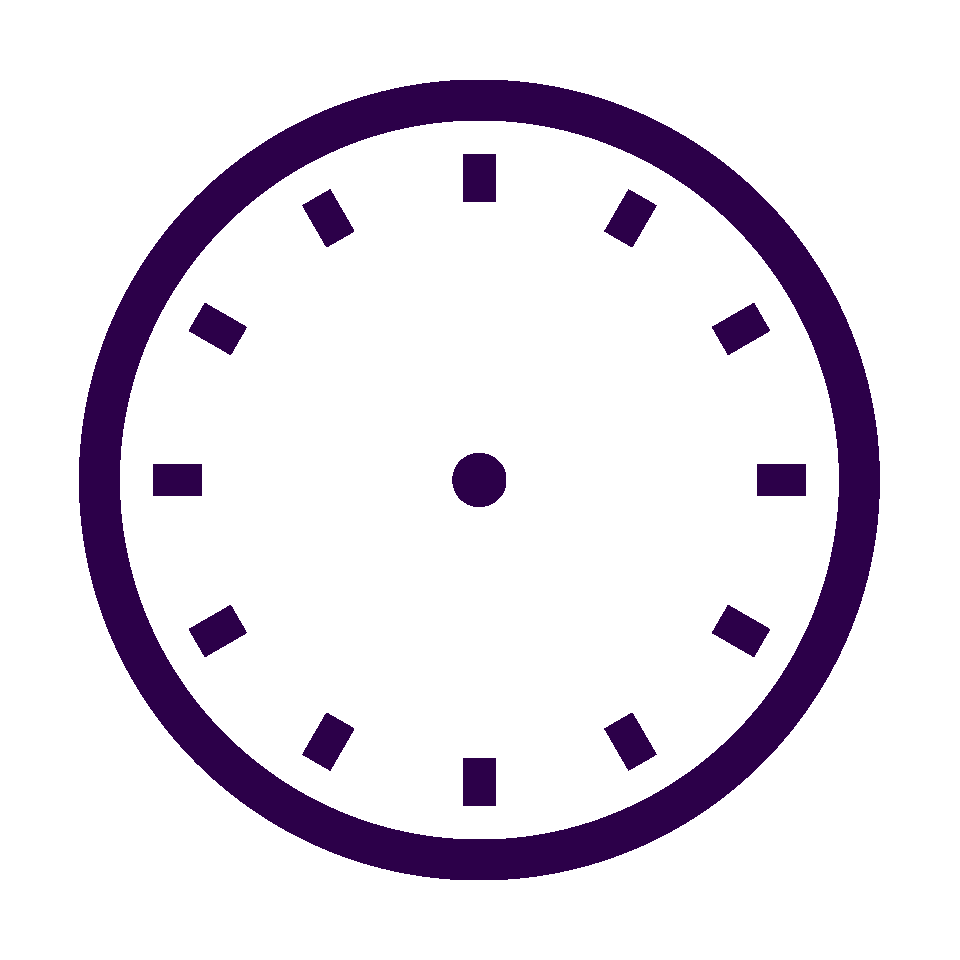
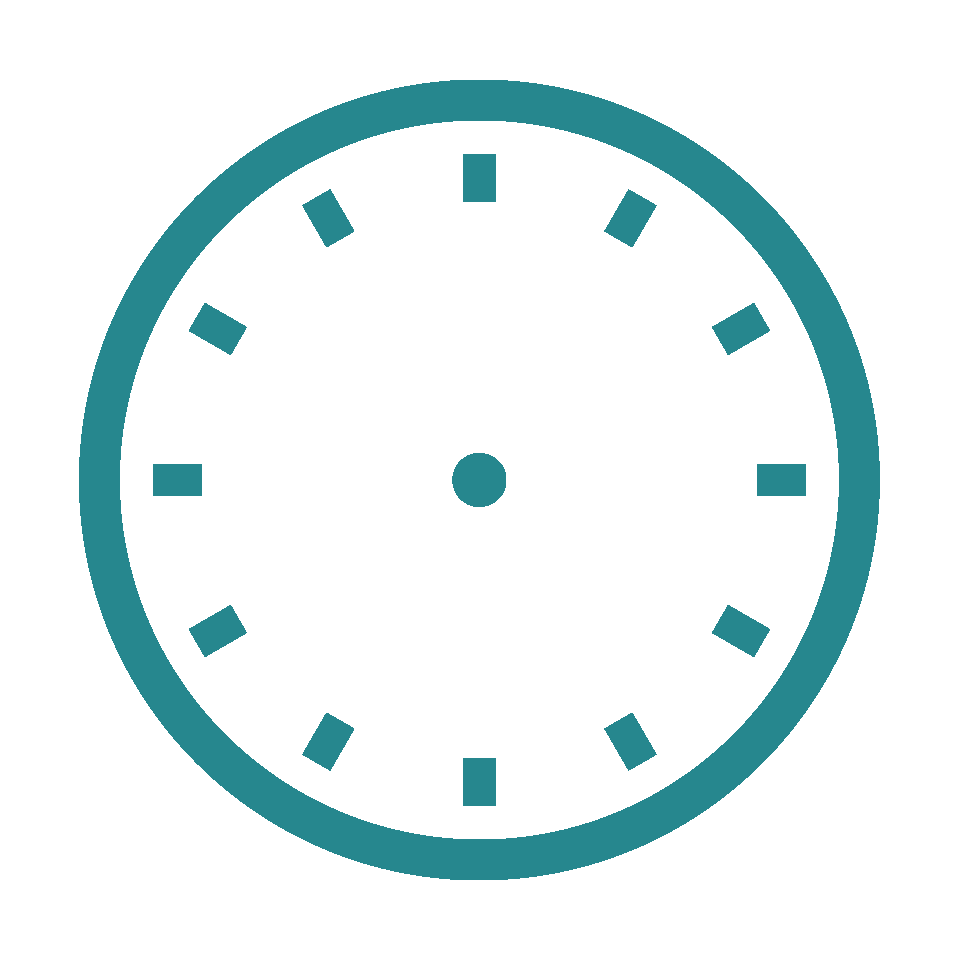
settings added

diff --git a/settings.py b/settings.py
@@ -1,9 +1,23 @@
-from PIL import ImageFont
+from PIL import ImageFont, Image, ImageColor
+from customtkinter import *
+from CTkColorPicker import *
+
+images_src = ["/weather/src-wi-cloud.png", "/weather/src-wi-day-sunny.png", "/weather/src-wi-dust.png",
+              "/weather/src-wi-night-clear.png", "/weather/src-wi-rain.png", "/weather/src-wi-snow.png",
+              "/weather/src-wi-thunderstorm.png", "/habits/src-checked.png", "/habits/src-unchecked.png",
+              "/goals/src-arrow.png", "/clock/src-clock.png", "/clock/src-hand2.png"]
+
+images = ["/weather/wi-cloud.png", "/weather/wi-day-sunny.png", "/weather/wi-dust.png",
+          "/weather/wi-night-clear.png", "/weather/wi-rain.png", "/weather/wi-snow.png",
+          "/weather/wi-thunderstorm.png", "/habits/checked.png", "/habits/unchecked.png", "/goals/arrow.png",
+          "/clock/clock.png", "/clock/hand2.png"]
+
+with open("data/settings.txt", "r") as f:
+    lines = f.readlines()
+    COL_2 = lines[1].strip()
 
 COL_1 = "#242424"
-COL_2 = "#2C0049"
 COL_FONT = "#fcf7ff"
-
 
 FONT = ("Arial", 30)
 FONT_TIMER = ("Arial", 50)
@@ -12,3 +26,79 @@ FONT_BOX = ImageFont.truetype("arial.ttf", 20)
 
 FONT_TEXT = ("Arial", 20)
 FONT_TEXT_STRIKE = ("Arial", 20, "overstrike", "bold")
+
+
+class Settings(CTkToplevel):
+    def __init__(self, root):
+        super().__init__()
+        self.is_settings_on = True
+        self.main = root
+
+        self.create_settings_window()
+
+    def create_settings_window(self):
+        self.title("Settings")
+        self.resizable(False, False)
+
+        self.geometry('%dx%d+%d+%d' % (300, 600, 2250, 100))
+        self.c_settings = CTkCanvas(self, width=300, height=600, bg=COL_1, highlightthickness=0)
+        self.c_settings.grid(row=0, column=0)
+
+        self.b_set_color = CTkButton(self, text="Set leading color", font=FONT, fg_color=COL_2,
+                                     hover_color=COL_1, border_color=COL_2, border_width=5,
+                                     command=self.ask_color)
+        self.c_settings.create_window(150, 50, window=self.b_set_color, width=250, height=50)
+
+        self.b_save = CTkButton(self, text="Save and restart", font=FONT, fg_color=COL_1,
+                                hover_color=COL_2, border_color=COL_2, border_width=5,
+                                command=self.save)
+        self.c_settings.create_window(150, 550, window=self.b_save, width=250, height=50)
+
+    def ask_color(self):
+        pick_color = AskColor()
+        self.color = pick_color.get()
+        if self.color is not None:
+            self.b_set_color.configure(border_color=self.color)
+            with open("data/settings.txt", "w") as file:
+                file.write('%s\n' % "0")
+                file.write('%s\n' % self.color)
+
+    def save(self):
+        self.main.destroy()
+        os.system("python main.py")
+
+
+def change_images():
+    with open("data/settings.txt", "r") as f:
+        lines = f.readlines()
+
+        for i in range(len(lines)):
+            lines[i] = lines[i].strip()
+
+    if lines[0] == '0':
+        rgb = ImageColor.getcolor(lines[1], "RGB")
+        for i in range(len(images_src)):
+            img = Image.open(f"images{images_src[i]}")
+            img = img.convert("RGBA")
+            d = img.getdata()
+            new_image = []
+
+            for item in d:
+                if item[0] == 44:
+                    new_image.append((rgb[0], rgb[1], rgb[2], item[3]))
+                elif item[0] != 255:
+                    new_image.append(item)
+                else:
+                    new_image.append((255, 255, 255, 0))
+
+            img.putdata(new_image)
+
+            img.save(f"images{images[i]}")
+            lines[0] = '1'
+
+        with open("data/settings.txt", "w+") as file:
+            file.write('%s\n' % lines[0])
+            file.write('%s\n' % lines[1])
+
+
+change_images()

diff --git a/main.py b/main.py
@@ -1,3 +1,4 @@
+import customtkinter
 from customtkinter import *
 
 from Data import Date, Weather
@@ -7,6 +8,7 @@ from setup import Setup1, Setup2
 from start import Start_window
 from habit import Habit_tracker
 
+
 class App(CTk):
     def __init__(self):
         super().__init__()
@@ -14,7 +16,7 @@ class App(CTk):
         w, h = self.winfo_screenwidth(), self.winfo_screenheight()
         self.geometry("%dx%d+0+0" % (w, h))
         self.after(0, lambda: self.state('zoomed'))
-
+        print(self['bg'])
         self.bind("<Configure>", self.resize)
         # data
         self.today_data = Date()
@@ -30,6 +32,9 @@ class App(CTk):
         self.create_c_sidebar()
         self.main.create_main_window()
 
+        self.settings_window = None
+        self.is_settings_window_on = False
+
     # create elements
     def create_c_main(self):
         if self.c_main is not None:
@@ -37,7 +42,13 @@ class App(CTk):
         self.c_main = CTkCanvas(self, width=2160, height=1440, bg=COL_1, highlightthickness=0)
         self.c_main.grid(row=0, column=1)
 
+        img = CTkImage(light_image=Image.open("images/settings.png"), size=(50, 50))
+        self.settings = CTkButton(self, image=img, text="", fg_color=COL_1, hover_color=COL_2,
+                                  command=self.open_settings, )
+        self.c_main.create_window(2120, 30, window=self.settings, height=50, width=70)
+
     def create_c_sidebar(self):
+        print("popo ", COL_2)
         self.c_sidebar = CTkCanvas(self, width=400, height=1440,
                                    bg="black", highlightthickness=0)
         self.c_sidebar.grid(row=0, column=0)
@@ -49,13 +60,26 @@ class App(CTk):
                                          bg_color=COL_2, hover_color="black", border_color=COL_2,
                                          border_width=10, command=self.habit.create_habit_window)
         self.c_sidebar.create_window(200, 225, window=self.b_habit_tracker, width=300, height=100)
-
-        self.c_sidebar.create_image(200, 1230, image=create_imagetk("images/line.png", 350, 100))
+        self.c_sidebar.create_line(30, 1230, 370, 1230, fill=COL_2, width=5)
         self.c_sidebar.create_text(260, 1300, text=f" {self.today_data.formatted_date} ", font=FONT, fill=COL_FONT)
         self.c_sidebar.create_image(90, 1300, image=create_imagetk(self.weather_data.image, 150, 150))
 
     def resize(self, e):
         pass
+
+    def open_settings(self):
+        if not self.is_settings_window_on or not self.settings_window.is_settings_on:
+            self.settings_window = Settings(self)
+            self.settings_window.wm_attributes("-topmost", True)
+            self.is_settings_window_on = True
+            self.settings_window.protocol("WM_DELETE_WINDOW", self.settings_on_closing)
+        else:
+            self.settings_window.destroy()
+            self.is_settings_window_on = False
+
+    def settings_on_closing(self):
+        self.is_settings_window_on = False
+        self.settings_window.destroy()
 
 
 if __name__ == "__main__":

diff --git a/setup.py b/setup.py
@@ -180,10 +180,10 @@ class Setup1:
 
         text = self.app.c_main.itemcget(self.goals_widgets[self.goal], 'text')
         prev_pos = (self.goals_texts.index(text))
-        if prev_pos - 1 == self.shadow_line_position:
-            pass
-        elif self.shadow_line_position != 0:
+
+        if prev_pos + 1 == self.shadow_line_position:
             self.shadow_line_position -= 1
+
         self.goals_texts.remove(text)
         self.goals_texts.insert(self.shadow_line_position, text)
 
@@ -557,7 +557,8 @@ class Setup2:
         self.app.c_main.coords(self.blocks[self.category][self.element][2], self.start_pos[0] + 100,
                                self.start_pos[1] + 85)
 
-        if 1090 < e.y < 1390:
+        print()
+        if 1090 < e.y < 1390 and len(self.tl_blocks) < 9:
             col = self.app.c_main.itemcget(self.blocks[self.category][self.element][0], 'fill')
             timer = self.app.c_main.itemcget(self.blocks[self.category][self.element][1], 'text')
             text = self.app.c_main.itemcget(self.blocks[self.category][self.element][2], 'text')

diff --git a/start.py b/start.py
@@ -26,7 +26,7 @@ class Start_window:
 
         self.app.c_main.create_window(575, 190, window=self.arr_up, width=70, height=70)
         img = CTkImage(light_image=Image.open("images/goals/down2.png"), size=(50, 50))
-        
+
         self.arr_down = CTkButton(self.app, image=img, text="",
                                   fg_color=COL_1, hover_color=COL_2,
                                   command=lambda: self.app.setup1.widget_goals(1))
